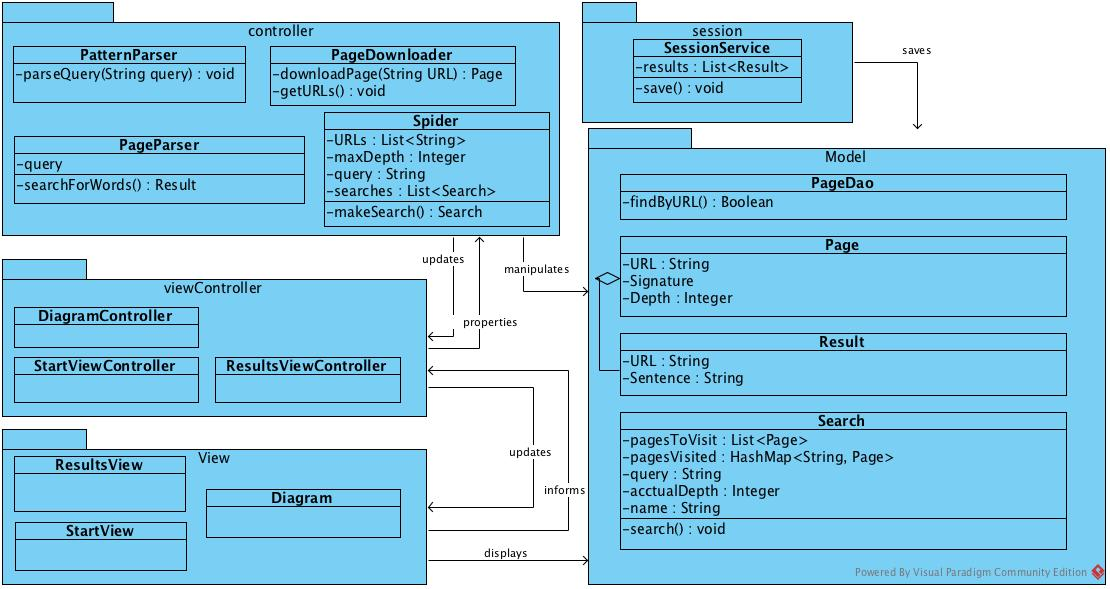
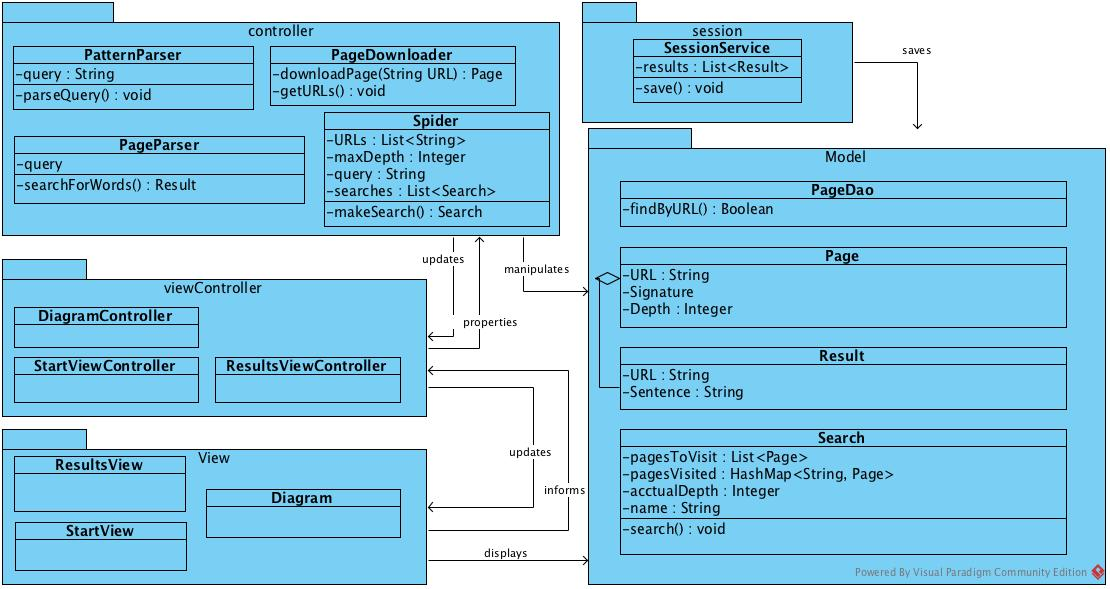
new gitignore

Changed region(s): [[0.5514, 0.275, 0.9495, 0.8251], [0.0, 0.0611, 0.245, 0.1834], [0.5514, 0.9168, 0.9495, 0.9474]]

diff --git a/src/main/java/WebCrawlerApp/controller/PageDownloader.java b/src/main/java/WebCrawlerApp/controller/PageDownloader.java
@@ -1,11 +1,17 @@
 package WebCrawlerApp.controller;
 
 import WebCrawlerApp.model.Page;
+import org.jsoup.Jsoup;
+import org.jsoup.nodes.Document;
+import java.io.IOException;
+import static com.sun.activation.registries.LogSupport.log;
 
 public class PageDownloader {
 
-    private Page downloadPage(String URL){
-        return new Page();
+    private Page downloadPage(String URL,Integer depth) throws IOException{
+        Document doc = Jsoup.connect(URL).get();
+        Page page = new Page(URL,"",depth);
+        return page;
     }
 
     private void getURLs(){

diff --git a/src/main/java/WebCrawlerApp/model/Page.java b/src/main/java/WebCrawlerApp/model/Page.java
@@ -4,6 +4,12 @@ import javafx.scene.input.DataFormat;
 
 public class Page {
     String URL;
-    DataFormat signature;
+    String signature;
     Integer depth;
+
+    public Page(String URL, String signature,Integer depth){
+        this.URL = URL;
+        this.signature = signature;
+        this.depth = depth;
+    }
 }
